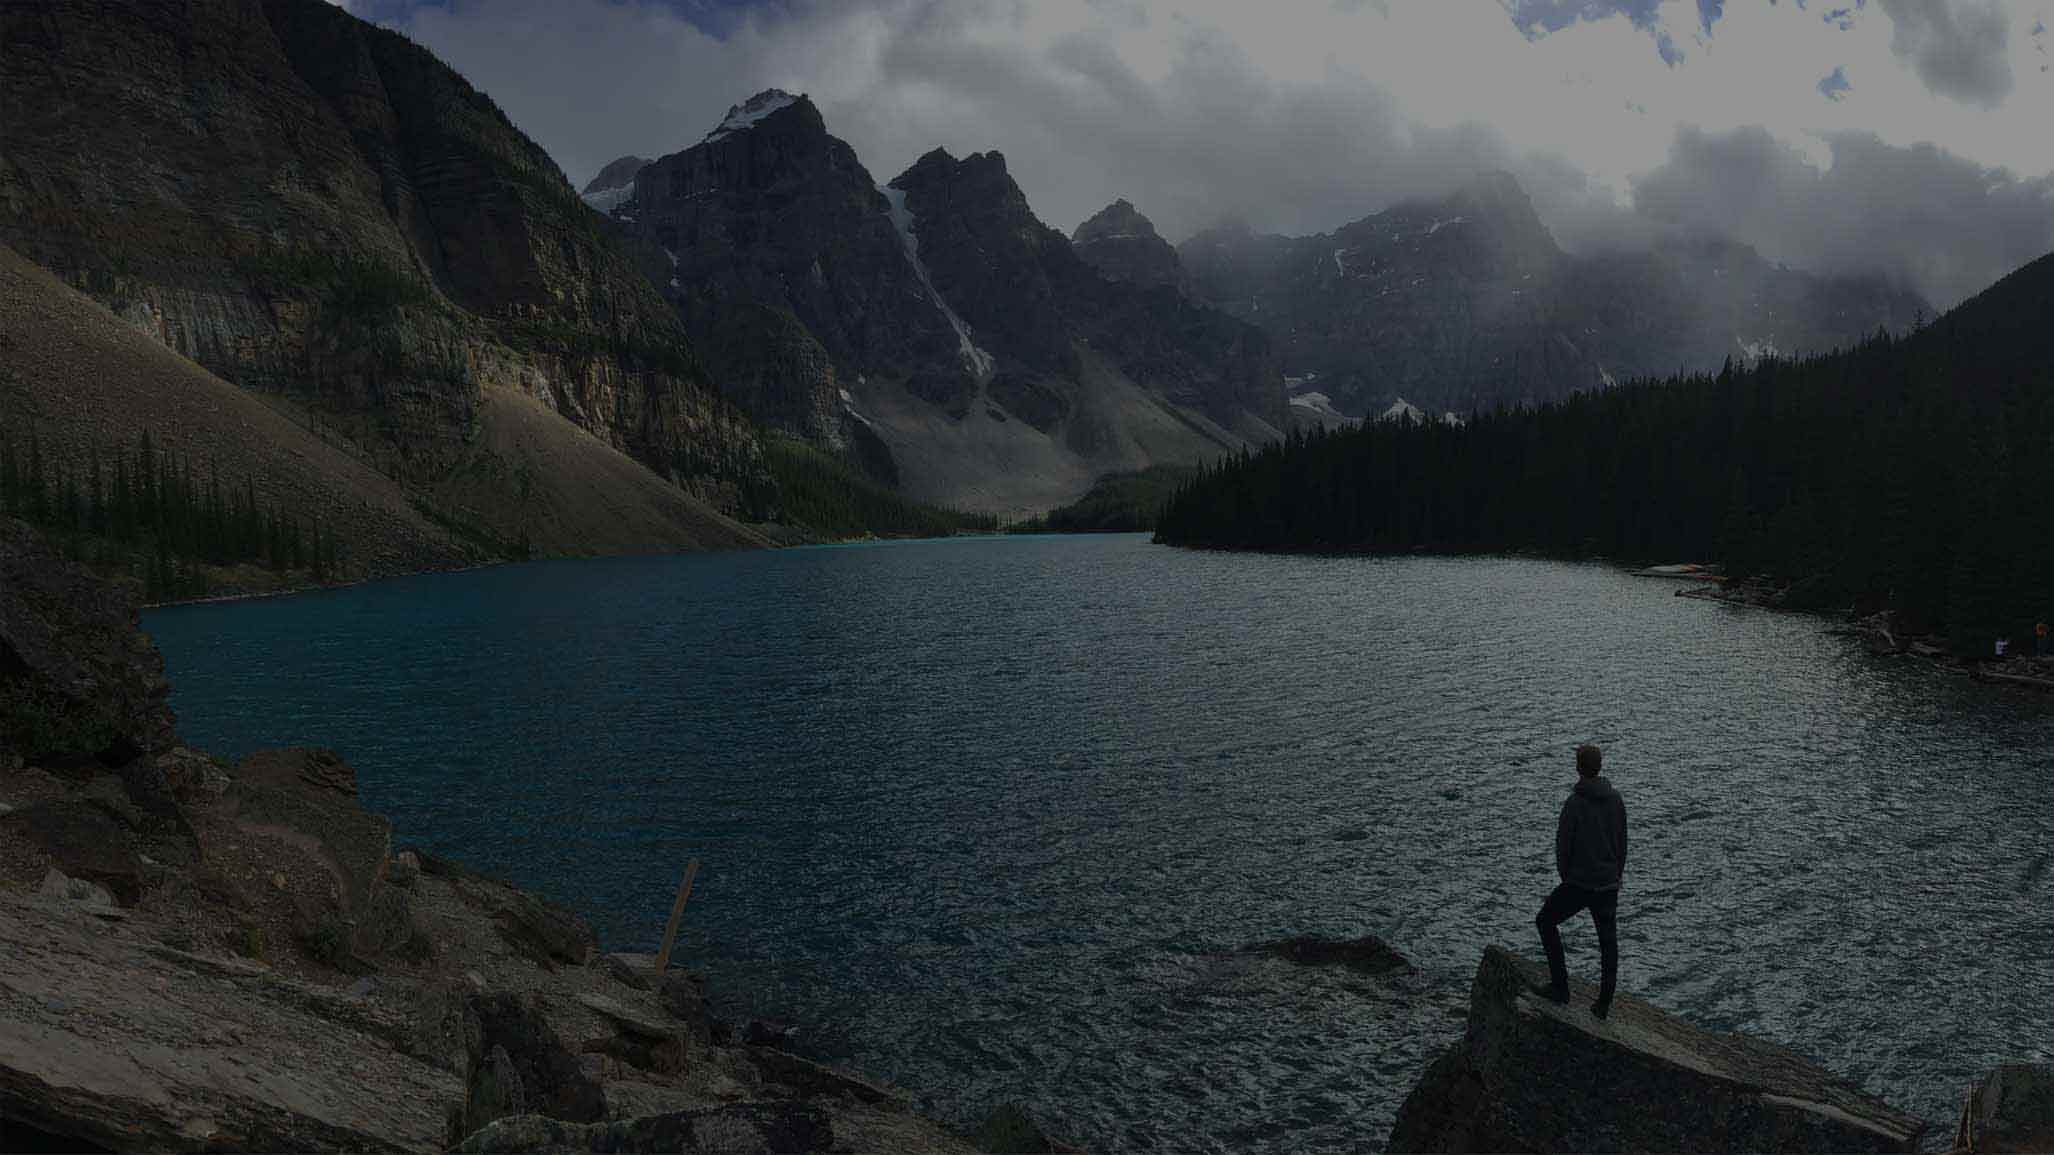
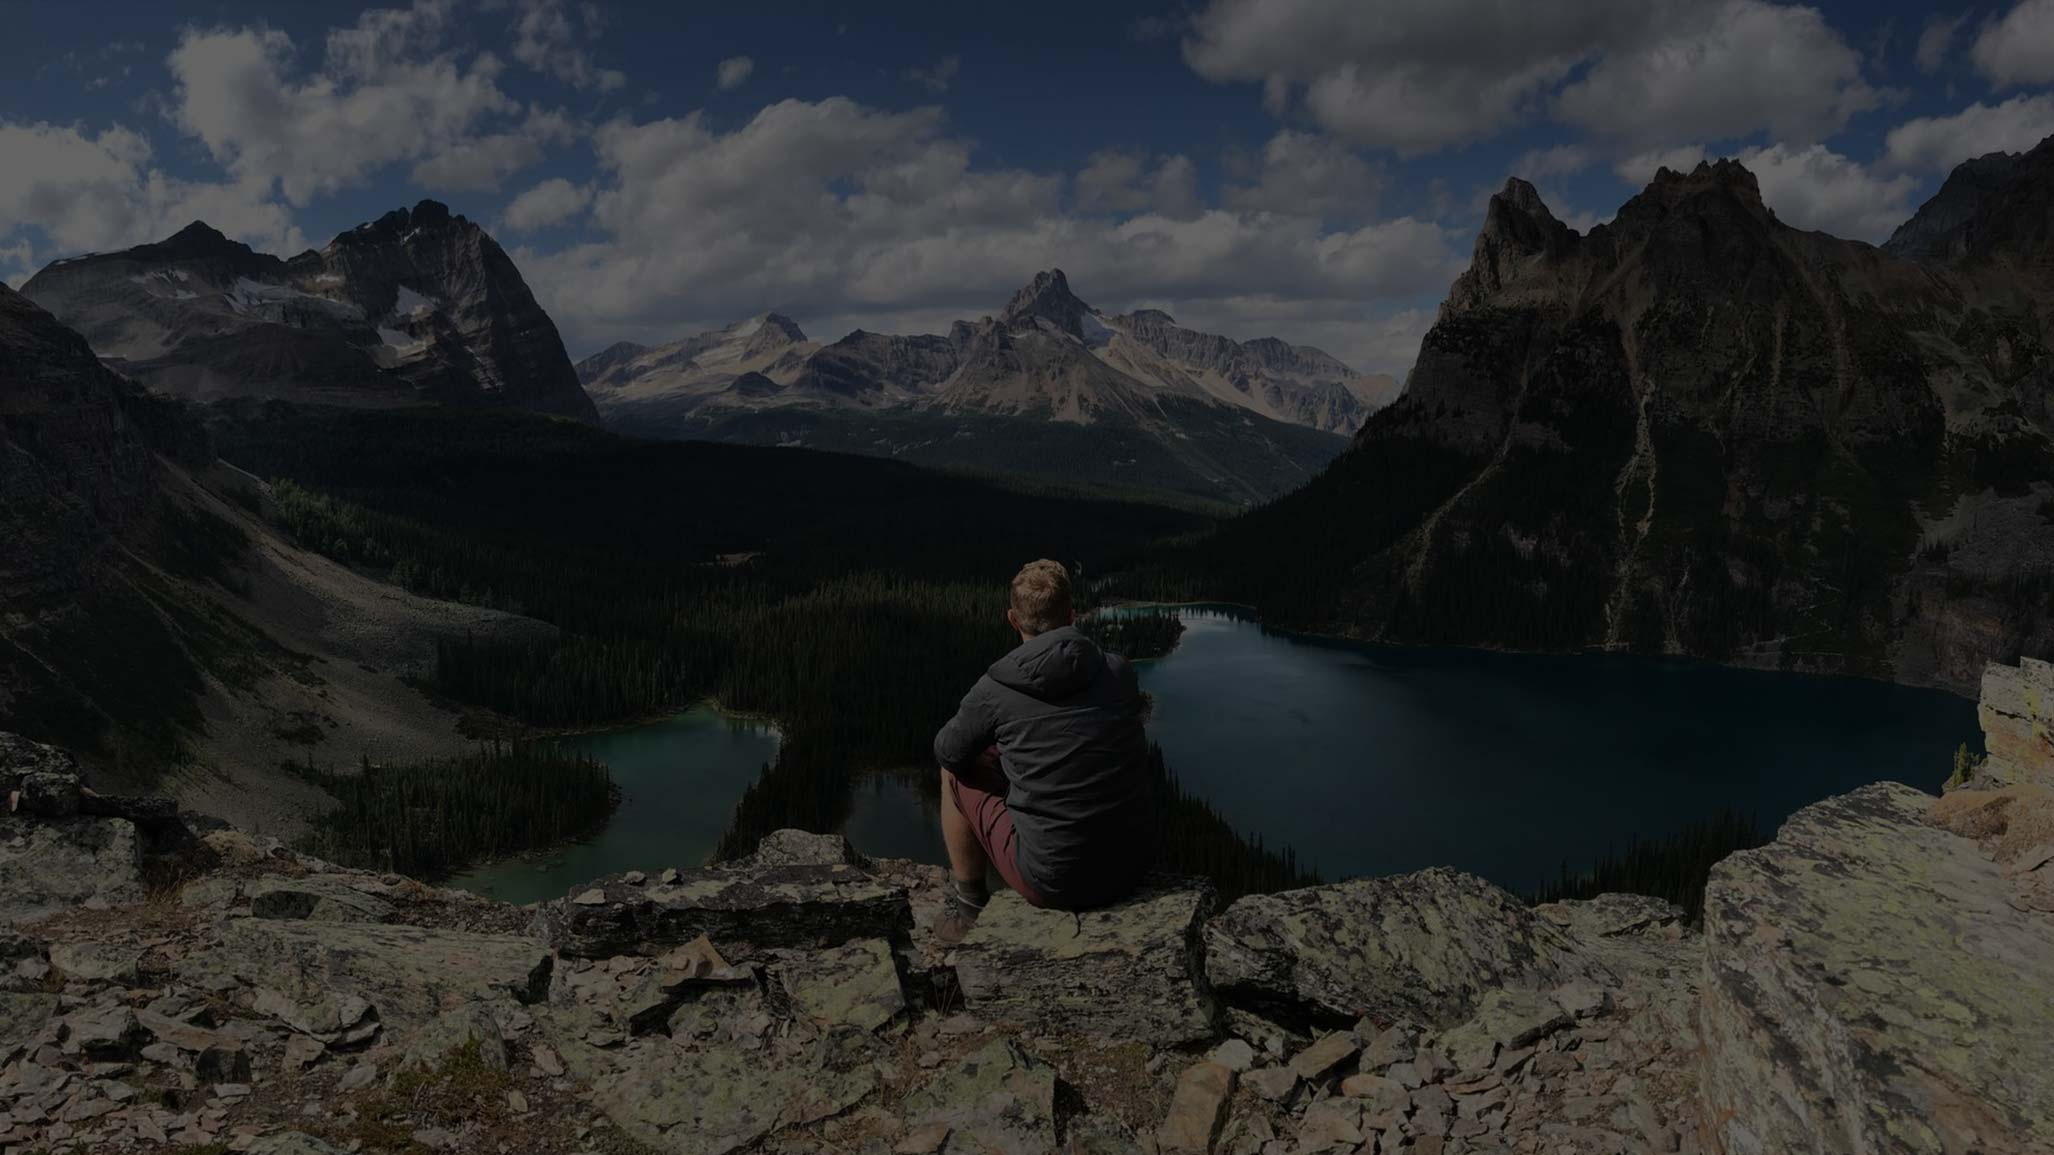
update photo, URLs, and social

diff --git a/index.html b/index.html
@@ -30,16 +30,14 @@
                 <h1>Alex Sutcliffe<br><span>Web Developer</span></h1>
             </div>
             <div class="body">
-                <p>I'm a web developer based in Vancouver, B.C. I work for <a href="http://www.arcteryx.com" class="arcteryx" target="_blank">Arc'teryx <img class="arclogo" src="assets/img/arc1.png" alt="Arc'teryx Bird Logo"></a>. My latest project is a React app, <a class="release-finder" href="http://releasefinder.alexsutcliffe.com">Release-Finder General</a>. I've worked with <a href="https://www.clio.com" class="clio" target="_blank">Clio</a>, <a href="http://www.alexsutcliffe.com/The-Covenant/" class="covenantfestival" target="_blank">The Covenant</a>, <a href="http://www.visual-lime.com" class="visuallime" target="_blank">Visual Lime</a>, <a href="http://www.greystonebooks.com" class="greystone" target="_blank">Greystone Books</a>, <a href="http://www.davidsuzukibooks.com" class="suzuki" target="_blank">David Suzuki</a>, <a href="http://www.lifetreemedia.com" class="lifetree" target="_blank">LifeTree Media</a>, <a href="http://www.sfu.ca/fcat.html" class="sfu" target="_blank">SFU FCAT</a>, and <a href="http://www.lurkersgrave.com" class="lurker" target="_blank">Lurker</a>. I have a Masters degree in Publishing and an obsession with the PNW's pristine wilderness.</p>
+                <p>I'm a web developer based in Vancouver, B.C. I work for <a href="http://www.arcteryx.com" class="arcteryx" target="_blank">Arc'teryx <img class="arclogo" src="assets/img/arc1.png" alt="Arc'teryx Bird Logo"></a>. I've worked with/on <a class="release-finder" href="https://github.com/alololox/Release-Finder-General">Release-Finder General</a>, <a href="https://www.clio.com" class="clio" target="_blank">Clio</a>, <a href="http://www.alexsutcliffe.com/The-Covenant/" class="covenantfestival" target="_blank">The Covenant</a>, <a href="http://www.visual-lime.com" class="visuallime" target="_blank">Visual Lime</a>, <a href="http://www.greystonebooks.com" class="greystone" target="_blank">Greystone Books</a>, <a href="http://www.davidsuzukibooks.com" class="suzuki" target="_blank">David Suzuki</a>, <a href="http://www.lifetreemedia.com" class="lifetree" target="_blank">LifeTree Media</a>, <a href="http://www.sfu.ca/fcat.html" class="sfu" target="_blank">SFU FCAT</a>, and <a href="http://www.lurkersgrave.com" class="lurker" target="_blank">Lurker</a>. I have a Masters degree in Publishing and chances are you'll find me in the mountains.</p>
             </div>
         </div>
             <div class="social">
                 <ul class="social">
                     <li><a href="mailto:alexsutcliffe1@gmail.com" class="email" target="_blank"><i class="fa fa-envelope"></i></a></li>
-                    <li><a href="https://www.twitter.com/alololox" class="email" target="_blank"><i class="fa fa-twitter"></i></a></li>
                     <li><a href="https://ca.linkedin.com/in/alex-sutcliffe-4400638a" class="linkedin" target="_blank"><i class="fa fa-linkedin"></i></a></li>
                     <li><a href="https://github.com/alololox/" class="github" target="_blank"><i class="fa fa-github"></i></a></li>
-                    <li><a href="https://www.instagram.com/olololox/" class="instagram" target="_blank"><i class="fa fa-instagram"></i></a></li>
                 </ul>
             </div>
     </article>
